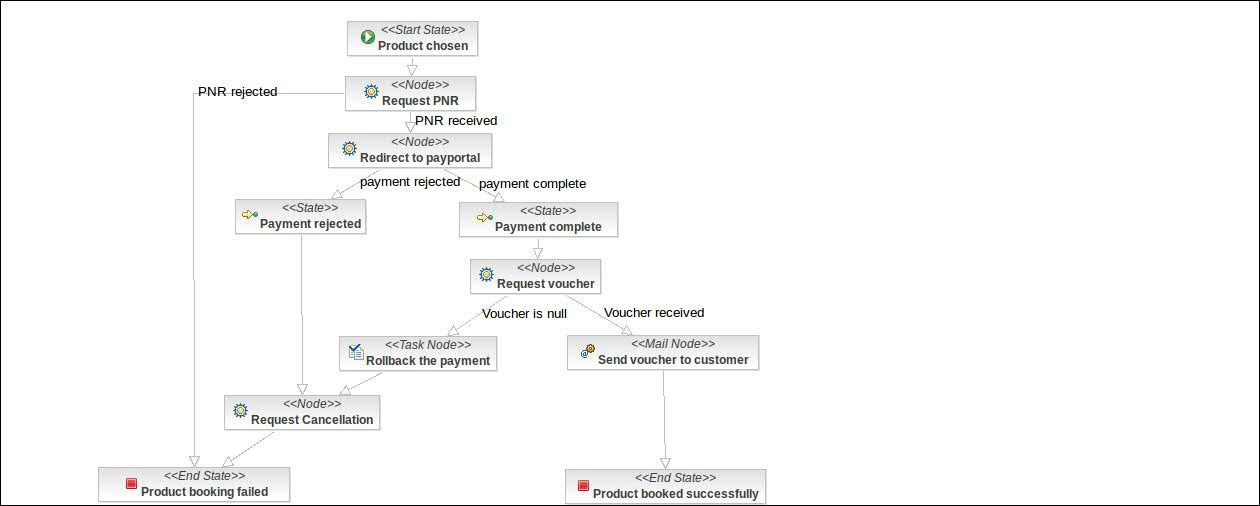
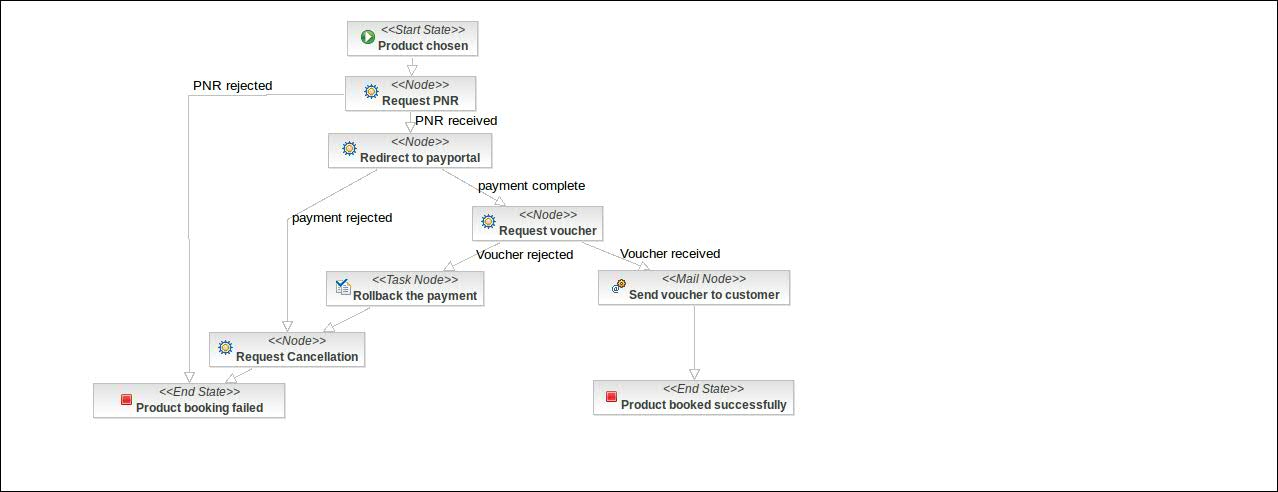
an attempt to compose email

Changed region(s): [[0.0619, 0.0305, 0.619, 0.8537], [0.4333, 0.9146, 0.619, 1.0], [0.0619, 0.9146, 0.2476, 1.0]]

diff --git a/jbpm-examples/jbpm-jpdl/src/test/java/edu/leti/jbpm/ProcessTest.java b/jbpm-examples/jbpm-jpdl/src/test/java/edu/leti/jbpm/ProcessTest.java
@@ -44,20 +44,42 @@ public class ProcessTest {
     @Test
     public void process() throws InterruptedException {
         final long processId = startProcess();
+        TimeUnit.SECONDS.sleep( 5 );
+        completePayment( processId );
 
         TimeUnit.SECONDS.sleep( 5 );
-
         final JbpmContext context = configuration.createJbpmContext();
-        final ProcessInstance instance = context.loadProcessInstance( processId );
+        try {
+            final ProcessInstance instance = context.loadProcessInstance( processId );
 
-        assertEquals( instance.getContextInstance().getVariable( Variables.PNR ), "PNR1" );
-        log.debug( instance.getRootToken().getNode().getName() );
+            assertEquals( instance.getContextInstance().getVariable( Variables.VOUCHER_ID ), 1L );
+            assert instance.hasEnded() : instance.getRootToken().getNode().getName();
+        } finally {
+            context.close();
+        }
+    }
+
+    private void completePayment( final long processId ) {
+        final JbpmContext context = configuration.createJbpmContext();
+        try {
+            final ProcessInstance instance = context.loadProcessInstance( processId );
+
+            assertEquals( instance.getContextInstance().getVariable( Variables.PNR ), "PNR1" );
+            assertEquals( instance.getRootToken().getNode().getName(), "Redirect to payportal" );
+
+            instance.signal( Transitions.PAYMENT_COMPLETE );
+        } finally {
+            context.close();
+        }
     }
 
     private long startProcess() {
         final JbpmContext context = configuration.createJbpmContext();
 
-        final Map<String, Object> parameters = ImmutableMap.<String, Object> of( Variables.PRODUCT_ID, 1L );
+        final Map<String, Object> parameters = ImmutableMap.<String, Object> of( Variables.PRODUCT_ID,
+            1L,
+            Variables.CUSTOMER_EMAIL,
+            "john.smith@example.com" );
 
         try {
             final ProcessInstance instance = context.newProcessInstance( "travel" );

diff --git a/jbpm-examples/jbpm-jpdl/src/main/java/edu/leti/jbpm/handlers/RequestVoucher.java b/jbpm-examples/jbpm-jpdl/src/main/java/edu/leti/jbpm/handlers/RequestVoucher.java
@@ -1,0 +1,48 @@
+/**
+ * 
+ */
+package edu.leti.jbpm.handlers;
+
+import java.util.concurrent.TimeUnit;
+
+import org.apache.log4j.Logger;
+import org.jbpm.graph.def.ActionHandler;
+import org.jbpm.graph.exe.ExecutionContext;
+
+import edu.leti.jbpm.Transitions;
+import edu.leti.jbpm.Variables;
+import edu.leti.jbpm.domain.Voucher;
+
+/**
+ * @author eav 2011
+ */
+public class RequestVoucher implements ActionHandler {
+    private static final Logger log = Logger.getLogger( RequestVoucher.class );
+
+    @Override
+    public void execute( final ExecutionContext executionContext ) {
+        final long productId = (Long) executionContext.getVariable( Variables.PRODUCT_ID );
+        final String pnr = (String) executionContext.getVariable( Variables.PNR );
+
+        final Voucher voucher = requestVoucher( productId, pnr );
+        if ( voucher != null ) {
+            executionContext.setVariable( Variables.VOUCHER_ID, voucher.getId() );
+            executionContext.leaveNode( Transitions.VOUCHER_RECEIVED );
+        } else {
+            executionContext.leaveNode( Transitions.VOUCHER_REJECTED );
+        }
+    }
+
+    private Voucher requestVoucher( final long productId, final String pnr ) {
+        log.info( "requesting voucher for product=" + productId + ", pnr=" + pnr );
+        try {
+            TimeUnit.SECONDS.sleep( 1 );
+        } catch ( final InterruptedException e ) {
+            Thread.currentThread().interrupt();
+        }
+        // todo randomize
+        final Voucher voucher = new Voucher( 1L, "<html>Hotel Florida</html>" );
+        log.info( "received voucher " + voucher );
+        return voucher;
+    }
+}

diff --git a/jbpm-examples/jbpm-jpdl/src/main/java/edu/leti/jbpm/domain/Voucher.java b/jbpm-examples/jbpm-jpdl/src/main/java/edu/leti/jbpm/domain/Voucher.java
@@ -1,0 +1,47 @@
+/**
+ * 
+ */
+package edu.leti.jbpm.domain;
+
+import javax.persistence.Id;
+
+/**
+ * @author eav 2011
+ */
+public class Voucher {
+    @Id
+    private long id;
+    private String body;
+
+    public Voucher( final long id, final String body ) {
+        super();
+        this.id = id;
+        this.body = body;
+    }
+
+    public Voucher() {
+        super();
+    }
+
+    public long getId() {
+        return id;
+    }
+
+    public void setId( final long id ) {
+        this.id = id;
+    }
+
+    public String getBody() {
+        return body;
+    }
+
+    public void setBody( final String body ) {
+        this.body = body;
+    }
+
+    @Override
+    public String toString() {
+        return "Voucher [id=" + id + ", body=" + body + "]";
+    }
+
+}

diff --git a/jbpm-examples/jbpm-jpdl/src/main/java/edu/leti/jbpm/handlers/RedirectToPayPortal.java b/jbpm-examples/jbpm-jpdl/src/main/java/edu/leti/jbpm/handlers/RedirectToPayPortal.java
@@ -1,0 +1,24 @@
+/**
+ * 
+ */
+package edu.leti.jbpm.handlers;
+
+import org.apache.log4j.Logger;
+import org.jbpm.graph.def.ActionHandler;
+import org.jbpm.graph.exe.ExecutionContext;
+
+import edu.leti.jbpm.Variables;
+
+/**
+ * @author eav 2011
+ */
+public class RedirectToPayPortal implements ActionHandler {
+    private static final Logger log = Logger.getLogger( RedirectToPayPortal.class );
+
+    @Override
+    public void execute( final ExecutionContext executionContext ) {
+        final long productId = (Long) executionContext.getVariable( Variables.PRODUCT_ID );
+        final String pnr = (String) executionContext.getVariable( Variables.PNR );
+        log.info( "redirecting to pay portal with product=" + productId + ", pnr=" + pnr );
+    }
+}

diff --git a/jbpm-examples/jbpm-jpdl/src/test/java/edu/leti/jbpm/Transitions.java b/jbpm-examples/jbpm-jpdl/src/test/java/edu/leti/jbpm/Transitions.java
@@ -9,4 +9,10 @@ package edu.leti.jbpm;
 public interface Transitions {
     String PNR_RECEIVED = "PNR received";
     String PNR_REJECTED = "PNR rejected";
+
+    String PAYMENT_REJECTED = "payment rejected";
+    String PAYMENT_COMPLETE = "payment complete";
+
+    String VOUCHER_RECEIVED = "Voucher received";
+    String VOUCHER_REJECTED = "Voucher rejected";
 }

diff --git a/jbpm-examples/jbpm-jpdl/src/main/java/edu/leti/jbpm/handlers/RequestPNR.java b/jbpm-examples/jbpm-jpdl/src/main/java/edu/leti/jbpm/handlers/RequestPNR.java
@@ -33,8 +33,10 @@ public class RequestPNR implements ActionHandler {
         } catch ( final InterruptedException e ) {
             Thread.currentThread().interrupt();
         }
+
+        // todo randomize
         final String pnr = "PNR1";
-        log.debug( "received PNR=" + pnr );
+        log.info( "received PNR=" + pnr );
 
         return pnr;
     }

diff --git a/jbpm-examples/jbpm-jpdl/src/test/java/edu/leti/jbpm/Variables.java b/jbpm-examples/jbpm-jpdl/src/test/java/edu/leti/jbpm/Variables.java
@@ -8,5 +8,8 @@ package edu.leti.jbpm;
  */
 public interface Variables {
     String PRODUCT_ID = "product.id";
+    String CUSTOMER_EMAIL = "customer.email";
     String PNR = "PNR";
+    String VOUCHER_ID = "voucher.id";
+    String VOUCHER_BODY = "voucher.body";
 }
